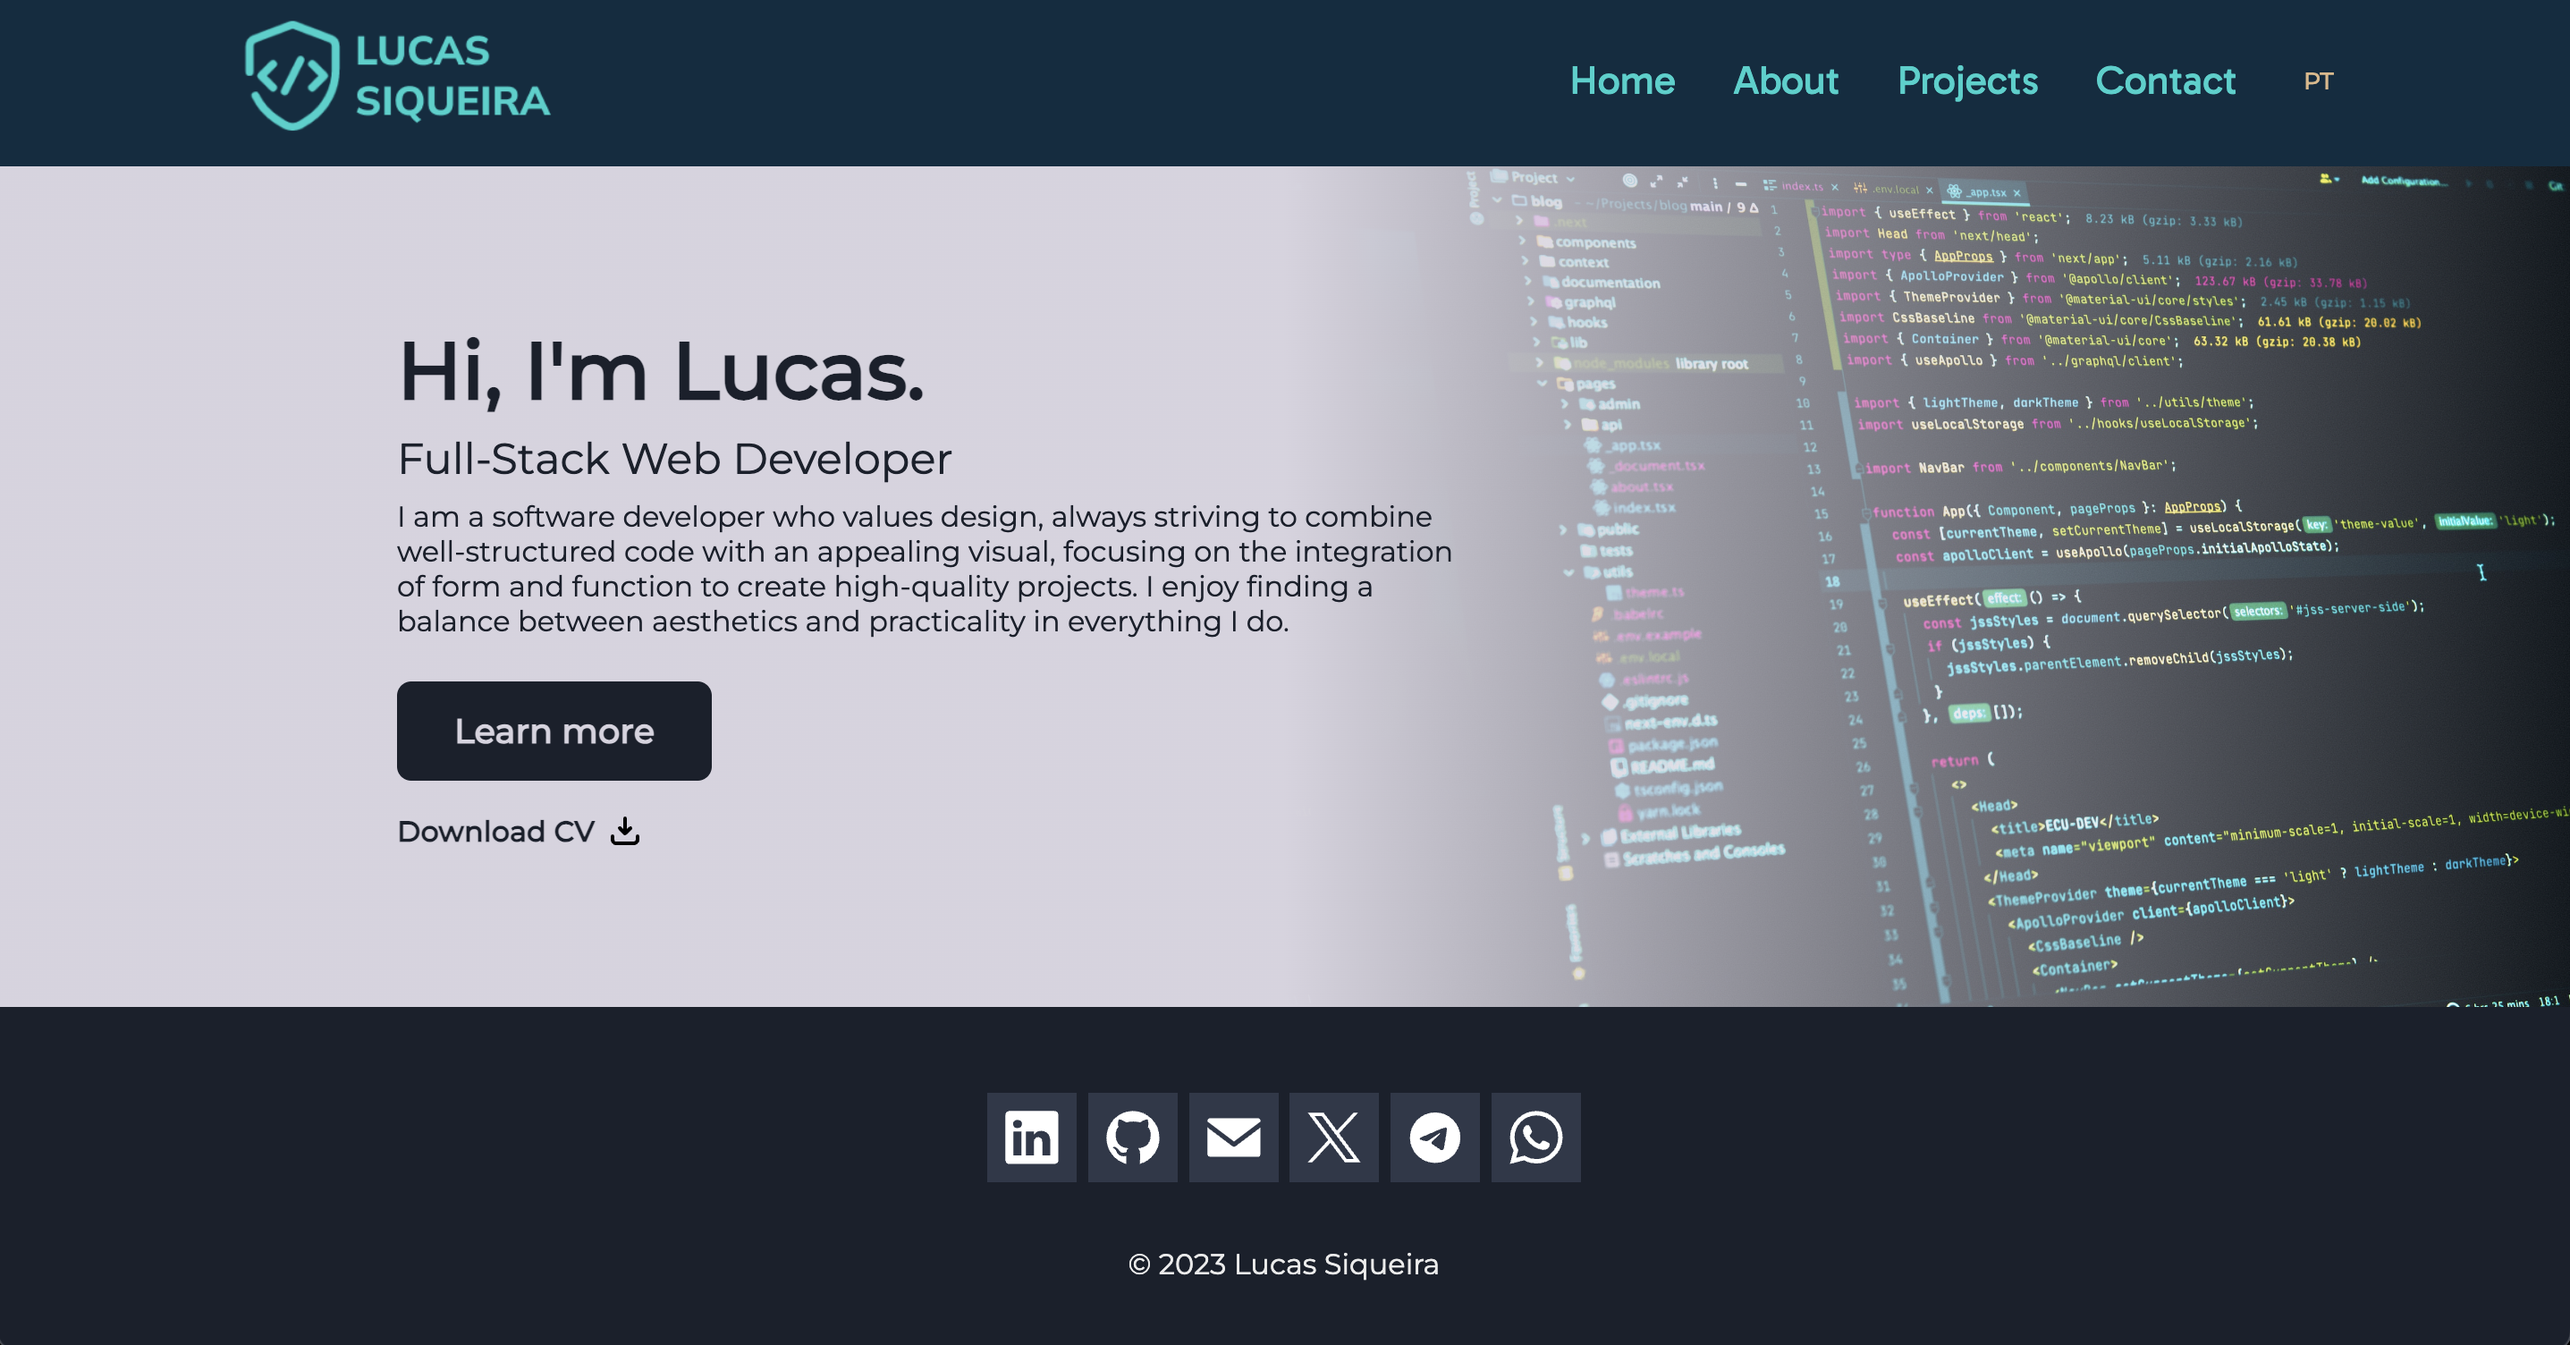
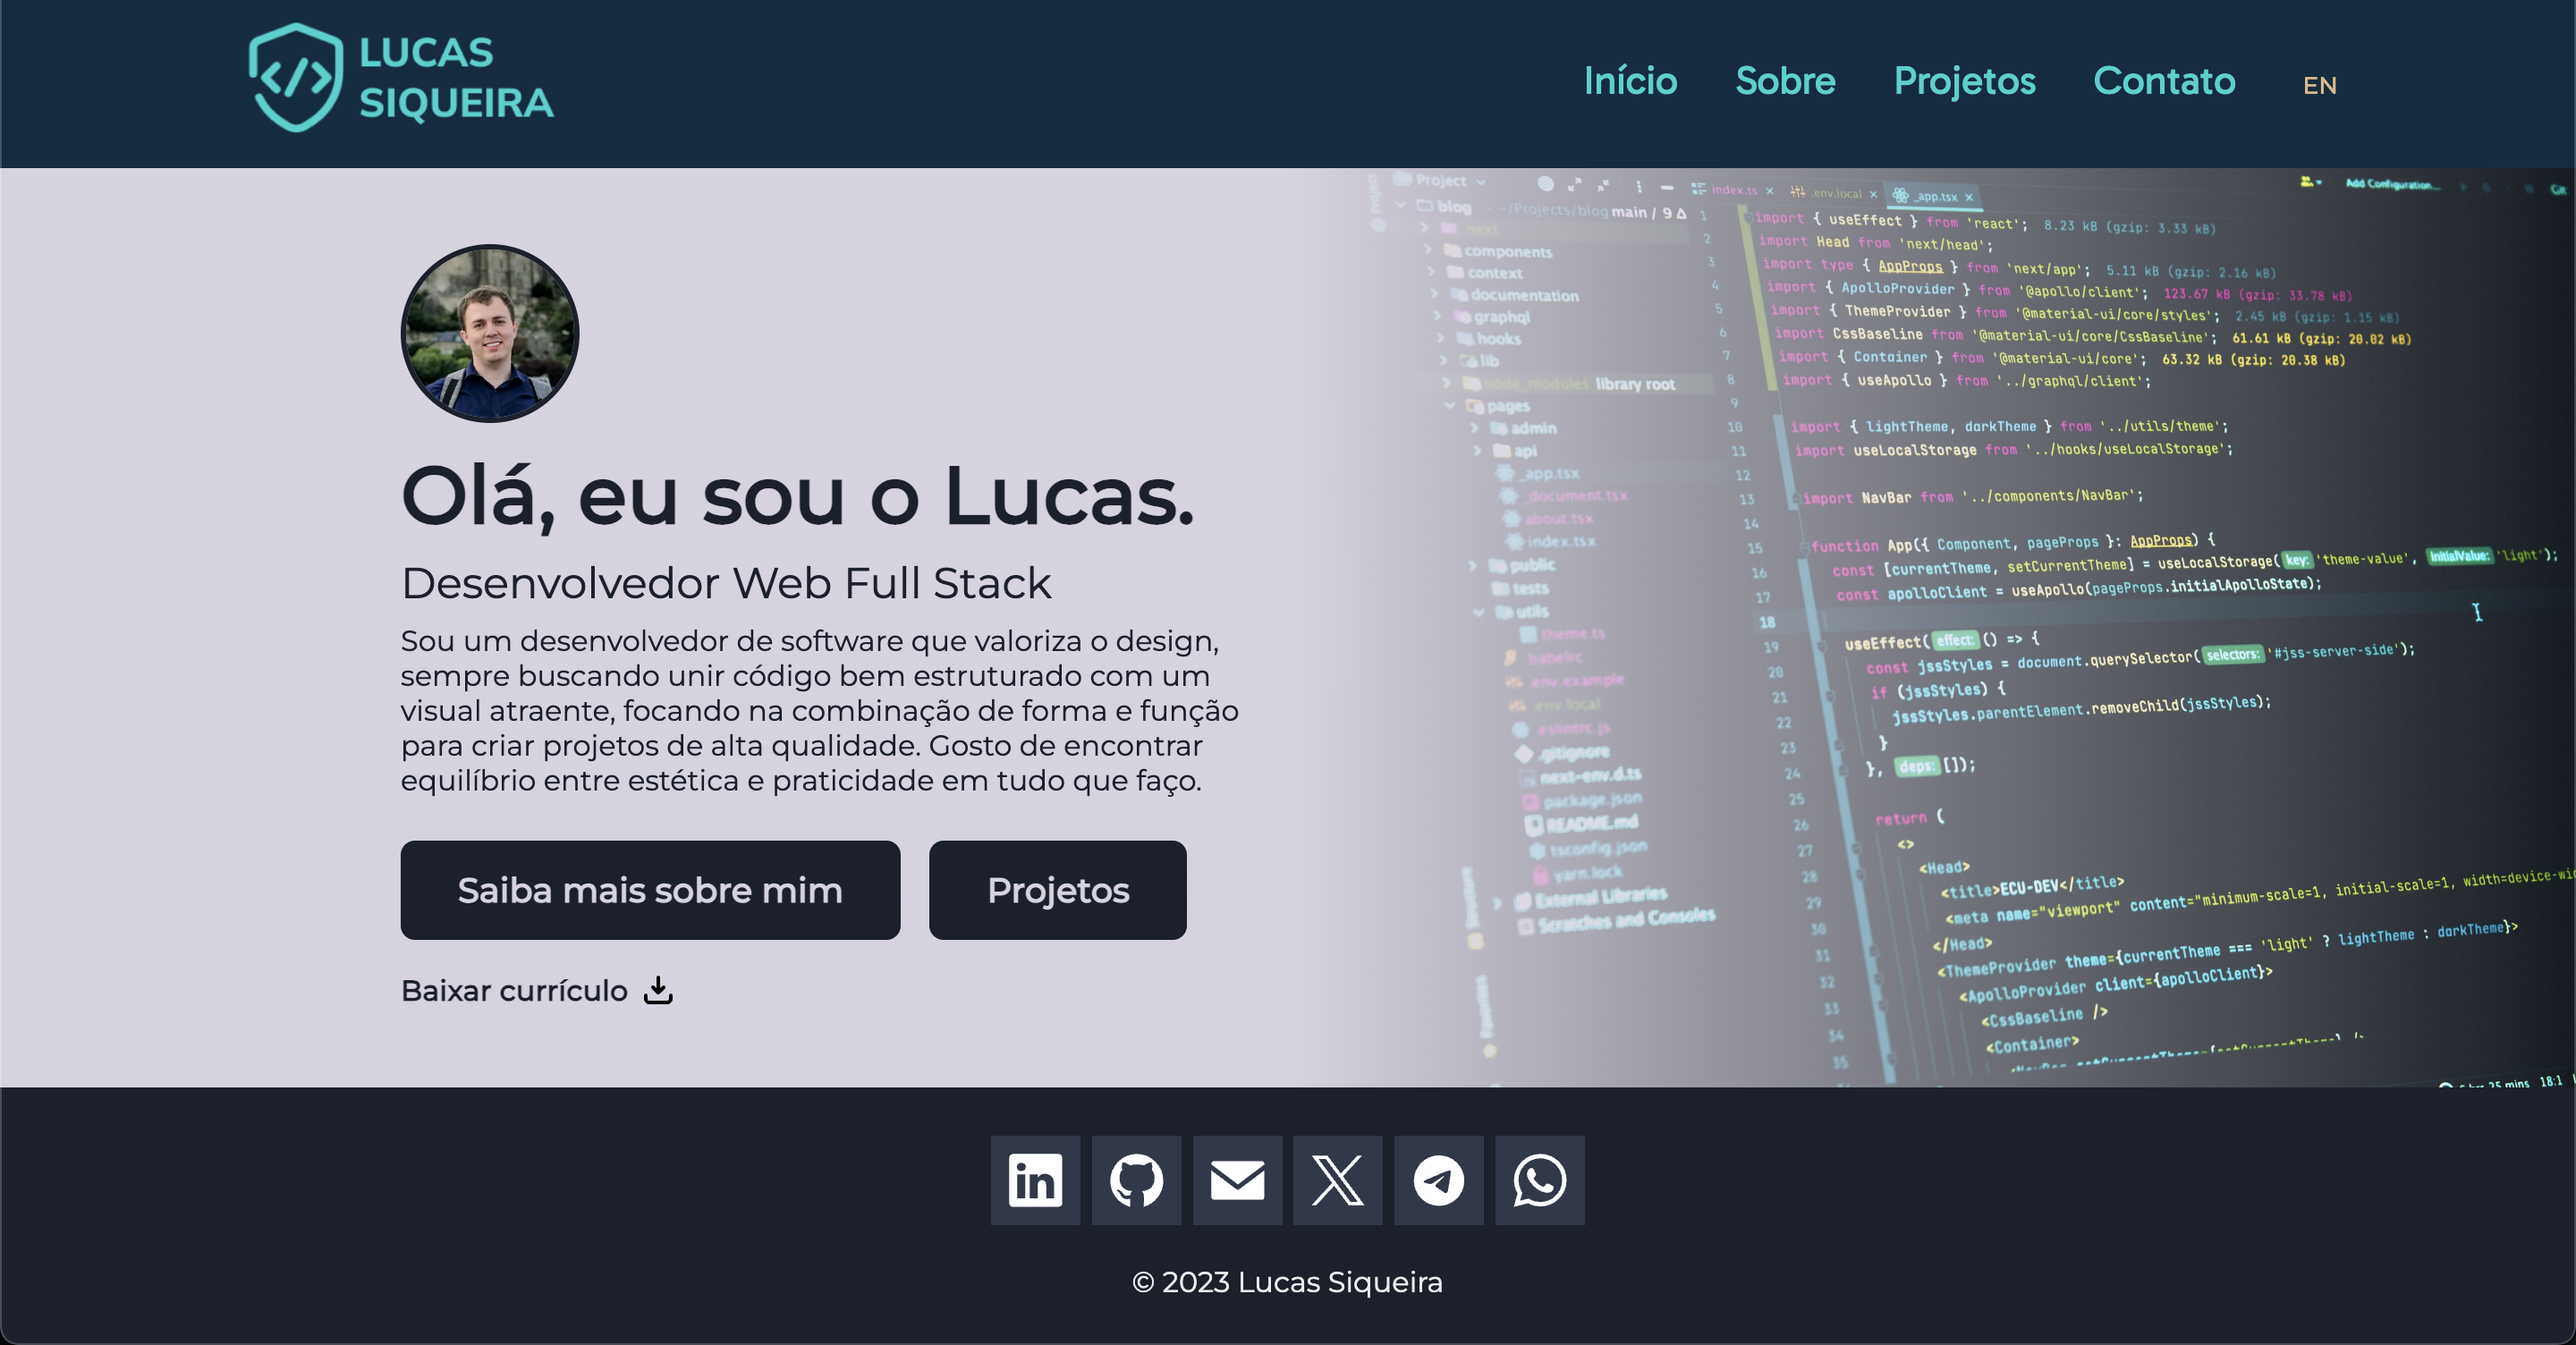
chore: updates photos

diff --git a/README.md b/README.md
@@ -41,3 +41,17 @@ Lucas Siqueira
 ### Links
 - [Meu Portfólio](https://lucasiqueira-portfolio.vercel.app/)
 - [Repositório](https://github.com/lucasiqueira/portfolio)
+
+
+### Versões
+
+- 1.0.0
+    - Lançamento do projeto
+
+- 1.1.0
+    - README.md atualizado
+    - Adequações de estilo no Footer.
+    - Adicionado link de acesso à página de projeto na Home.
+    - Atualização de dados pessoais.
+
+```
